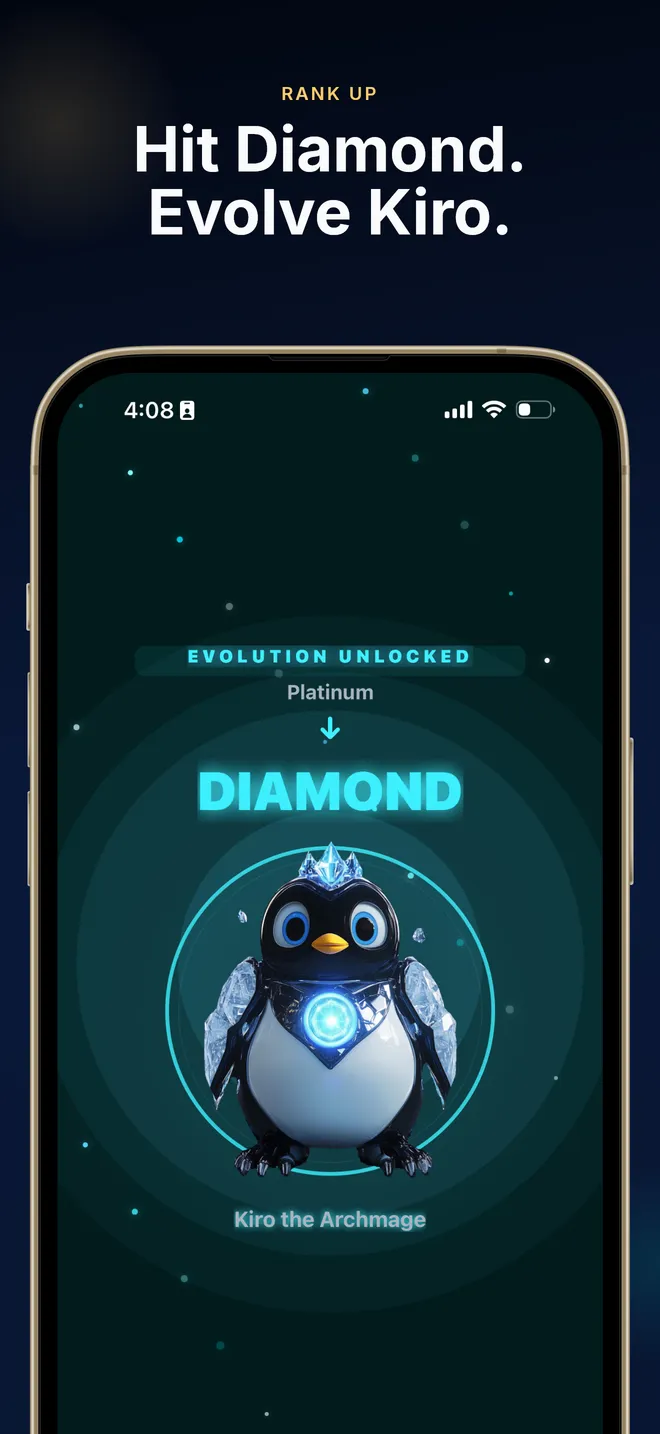
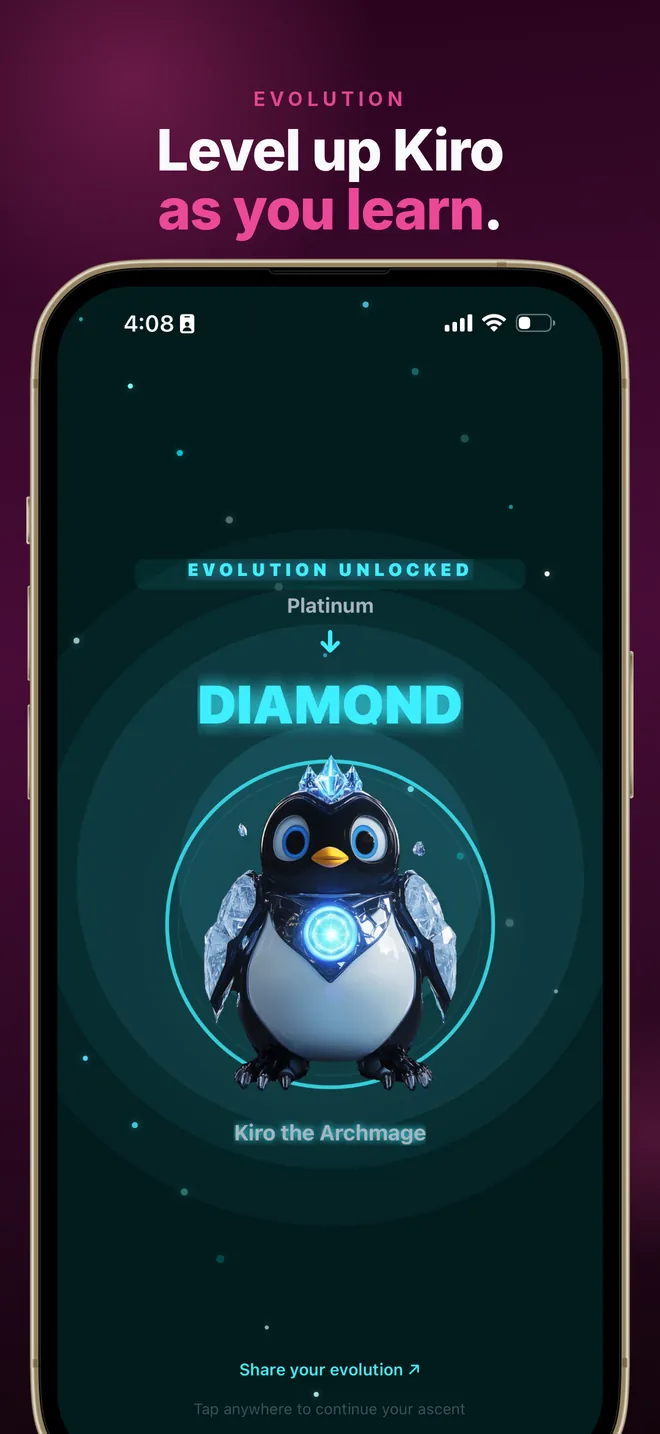
Refresh app store screenshots and reorder gameplay showcase
Replace all 8 gameplay-showcase screenshots with the updated App Store
set. New site order: Prompt Lab, Learning Paths, Delegate or DIY, AI
Duels, Node Map, Weekly AI News, Perfect XP, Rank Up. Regenerate webp
variants (1320w + 660w), update alt text, and remove unused assets.

https://claude.ai/code/session_01MBotUayr9vJMcNnzMWxK35

diff --git a/index.html b/index.html
@@ -1741,36 +1741,36 @@ posthog.init('phc_WkvD7IaVmxRJFXWpiu5MkabZL1iQZpPmDTvMmQTkXkc',{api_host:'https:
 <p class="s-sub">Pick a path &rarr; crush a lesson &rarr; duel a rival &rarr; rank up &rarr; sharpen in Prompt Lab. Repeat daily.</p>
 <div class="gameplay-grid">
 <div class="gameplay-card stagger-item" data-stagger="1">
-<picture><source srcset="assets/04-xp-660w.webp 660w, assets/04-xp-1320x2868.webp 1320w" sizes="(max-width:768px) 50vw, 25vw" type="image/webp"/><img alt="Kiro app: Perfect XP screen showing a flawless lesson score with full XP reward" decoding="async" loading="lazy" src="assets/04-xp-1320x2868.png"/></picture>
-<div class="gameplay-card-label"><span class="gameplay-card-idx">01/</span>Perfect XP</div>
+<picture><source srcset="assets/01-prompt-lab-660w.webp 660w, assets/01-prompt-lab-1320x2868.webp 1320w" sizes="(max-width:768px) 50vw, 25vw" type="image/webp"/><img alt="Kiro app: Prompt Lab practice screen with AI feedback scoring your prompt" decoding="async" loading="lazy" src="assets/01-prompt-lab-1320x2868.png"/></picture>
+<div class="gameplay-card-label"><span class="gameplay-card-idx">01/</span>Prompt Lab</div>
 </div>
 <div class="gameplay-card stagger-item" data-stagger="2">
-<picture><source srcset="assets/06-prompt-lab-660w.webp 660w, assets/06-prompt-lab-1320x2868.webp 1320w" sizes="(max-width:768px) 50vw, 25vw" type="image/webp"/><img alt="Kiro app: Prompt Lab coaching screen with AI feedback on your prompt quality" decoding="async" loading="lazy" src="assets/06-prompt-lab-1320x2868.png"/></picture>
-<div class="gameplay-card-label"><span class="gameplay-card-idx">02/</span>Prompt Lab</div>
+<picture><source srcset="assets/02-learning-paths-660w.webp 660w, assets/02-learning-paths-1320x2868.webp 1320w" sizes="(max-width:768px) 50vw, 25vw" type="image/webp"/><img alt="Kiro app: Learning Paths screen showing AI topic paths to choose from" decoding="async" loading="lazy" src="assets/02-learning-paths-1320x2868.png"/></picture>
+<div class="gameplay-card-label"><span class="gameplay-card-idx">02/</span>Learning Paths</div>
 </div>
 <div class="gameplay-card stagger-item" data-stagger="3">
-<picture><source srcset="assets/05-duels-660w.webp 660w, assets/05-duels-1320x2868.webp 1320w" sizes="(max-width:768px) 50vw, 25vw" type="image/webp"/><img alt="Kiro app: AI Duels screen showing a live competitive match against another learner" decoding="async" loading="lazy" src="assets/05-duels-1320x2868.png"/></picture>
-<div class="gameplay-card-label"><span class="gameplay-card-idx">03/</span>AI Duels<span class="gameplay-card-meta">LIVE · 1v1</span></div>
+<picture><source srcset="assets/03-delegate-or-diy-660w.webp 660w, assets/03-delegate-or-diy-1320x2868.webp 1320w" sizes="(max-width:768px) 50vw, 25vw" type="image/webp"/><img alt="Kiro app: Delegate or DIY exercise asking whether to use AI or handle a task yourself" decoding="async" loading="lazy" src="assets/03-delegate-or-diy-1320x2868.png"/></picture>
+<div class="gameplay-card-label"><span class="gameplay-card-idx">03/</span>Delegate or DIY</div>
 </div>
 <div class="gameplay-card stagger-item" data-stagger="4">
-<picture><source srcset="assets/02-hero-660w.webp 660w, assets/02-hero-1320x2868.webp 1320w" sizes="(max-width:768px) 50vw, 25vw" type="image/webp"/><img alt="Kiro app: Learning Paths screen showing 10 AI topic paths to choose from" decoding="async" loading="lazy" src="assets/02-hero-1320x2868.png"/></picture>
-<div class="gameplay-card-label"><span class="gameplay-card-idx">04/</span>Learning Paths</div>
+<picture><source srcset="assets/04-duel-victory-660w.webp 660w, assets/04-duel-victory-1320x2868.webp 1320w" sizes="(max-width:768px) 50vw, 25vw" type="image/webp"/><img alt="Kiro app: AI Duel victory screen with a live 1v1 scorecard and XP reward" decoding="async" loading="lazy" src="assets/04-duel-victory-1320x2868.png"/></picture>
+<div class="gameplay-card-label"><span class="gameplay-card-idx">04/</span>AI Duels<span class="gameplay-card-meta">LIVE · 1v1</span></div>
 </div>
 <div class="gameplay-card stagger-item" data-stagger="5">
-<picture><source srcset="assets/08-ranks-660w.webp 660w, assets/08-ranks-1320x2868.webp 1320w" sizes="(max-width:768px) 50vw, 25vw" type="image/webp"/><img alt="Kiro app: Rank Up screen showing progression to a new rank tier" decoding="async" loading="lazy" src="assets/08-ranks-1320x2868.png"/></picture>
-<div class="gameplay-card-label"><span class="gameplay-card-idx">05/</span>Rank Up</div>
+<picture><source srcset="assets/05-node-map-660w.webp 660w, assets/05-node-map-1320x2868.webp 1320w" sizes="(max-width:768px) 50vw, 25vw" type="image/webp"/><img alt="Kiro app: Node Map screen showing a visual path of connected lesson nodes to complete" decoding="async" loading="lazy" src="assets/05-node-map-1320x2868.png"/></picture>
+<div class="gameplay-card-label"><span class="gameplay-card-idx">05/</span>Node Map</div>
 </div>
 <div class="gameplay-card stagger-item" data-stagger="6">
-<picture><source srcset="assets/03-delegate-660w.webp 660w, assets/03-delegate-1320x2868.webp 1320w" sizes="(max-width:768px) 50vw, 25vw" type="image/webp"/><img alt="Kiro app: Delegate or DIY exercise asking whether to use AI or handle a task yourself" decoding="async" loading="lazy" src="assets/03-delegate-1320x2868.png"/></picture>
-<div class="gameplay-card-label"><span class="gameplay-card-idx">06/</span>Delegate or DIY</div>
+<picture><source srcset="assets/06-news-660w.webp 660w, assets/06-news-1320x2868.webp 1320w" sizes="(max-width:768px) 50vw, 25vw" type="image/webp"/><img alt="Kiro app: Weekly AI News feed with curated updates on the latest AI developments" decoding="async" loading="lazy" src="assets/06-news-1320x2868.png"/></picture>
+<div class="gameplay-card-label"><span class="gameplay-card-idx">06/</span>Weekly AI News</div>
 </div>
 <div class="gameplay-card stagger-item" data-stagger="7">
-<picture><source srcset="assets/07-ai-news-660w.webp 660w, assets/07-ai-news-1320x2868.webp 1320w" sizes="(max-width:768px) 50vw, 25vw" type="image/webp"/><img alt="Kiro app: Weekly AI News feed with curated updates on the latest AI developments" decoding="async" loading="lazy" src="assets/07-ai-news-1320x2868.png"/></picture>
-<div class="gameplay-card-label"><span class="gameplay-card-idx">07/</span>Weekly AI News</div>
+<picture><source srcset="assets/07-perfect-xp-660w.webp 660w, assets/07-perfect-xp-1320x2868.webp 1320w" sizes="(max-width:768px) 50vw, 25vw" type="image/webp"/><img alt="Kiro app: Perfect XP results screen showing a flawless lesson and streak progress" decoding="async" loading="lazy" src="assets/07-perfect-xp-1320x2868.png"/></picture>
+<div class="gameplay-card-label"><span class="gameplay-card-idx">07/</span>Perfect XP</div>
 </div>
 <div class="gameplay-card stagger-item" data-stagger="8">
-<picture><source srcset="assets/01-node-map-660w.webp 660w, assets/01-node-map-1320x2868.webp 1320w" sizes="(max-width:768px) 50vw, 25vw" type="image/webp"/><img alt="Kiro app: Node Map screen showing a visual path of connected lesson nodes to complete" decoding="async" loading="lazy" src="assets/01-node-map-1320x2868.png"/></picture>
-<div class="gameplay-card-label"><span class="gameplay-card-idx">08/</span>Node Map</div>
+<picture><source srcset="assets/08-ranks-660w.webp 660w, assets/08-ranks-1320x2868.webp 1320w" sizes="(max-width:768px) 50vw, 25vw" type="image/webp"/><img alt="Kiro app: Evolution Unlocked screen showing Kiro ranking up to Diamond" decoding="async" loading="lazy" src="assets/08-ranks-1320x2868.png"/></picture>
+<div class="gameplay-card-label"><span class="gameplay-card-idx">08/</span>Rank Up</div>
 </div>
 </div>
 <div class="exercise-types">